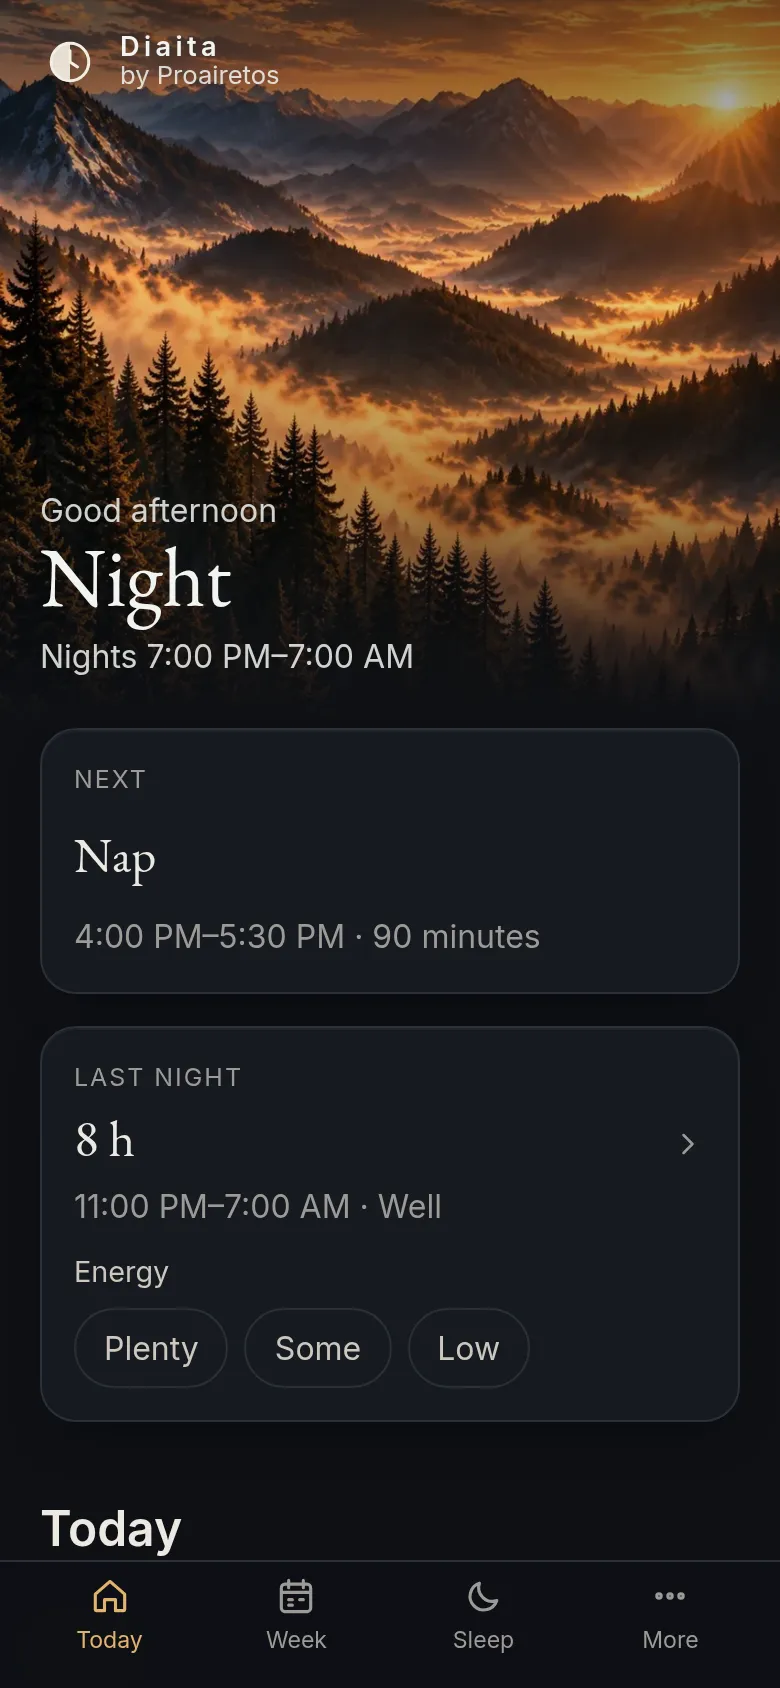
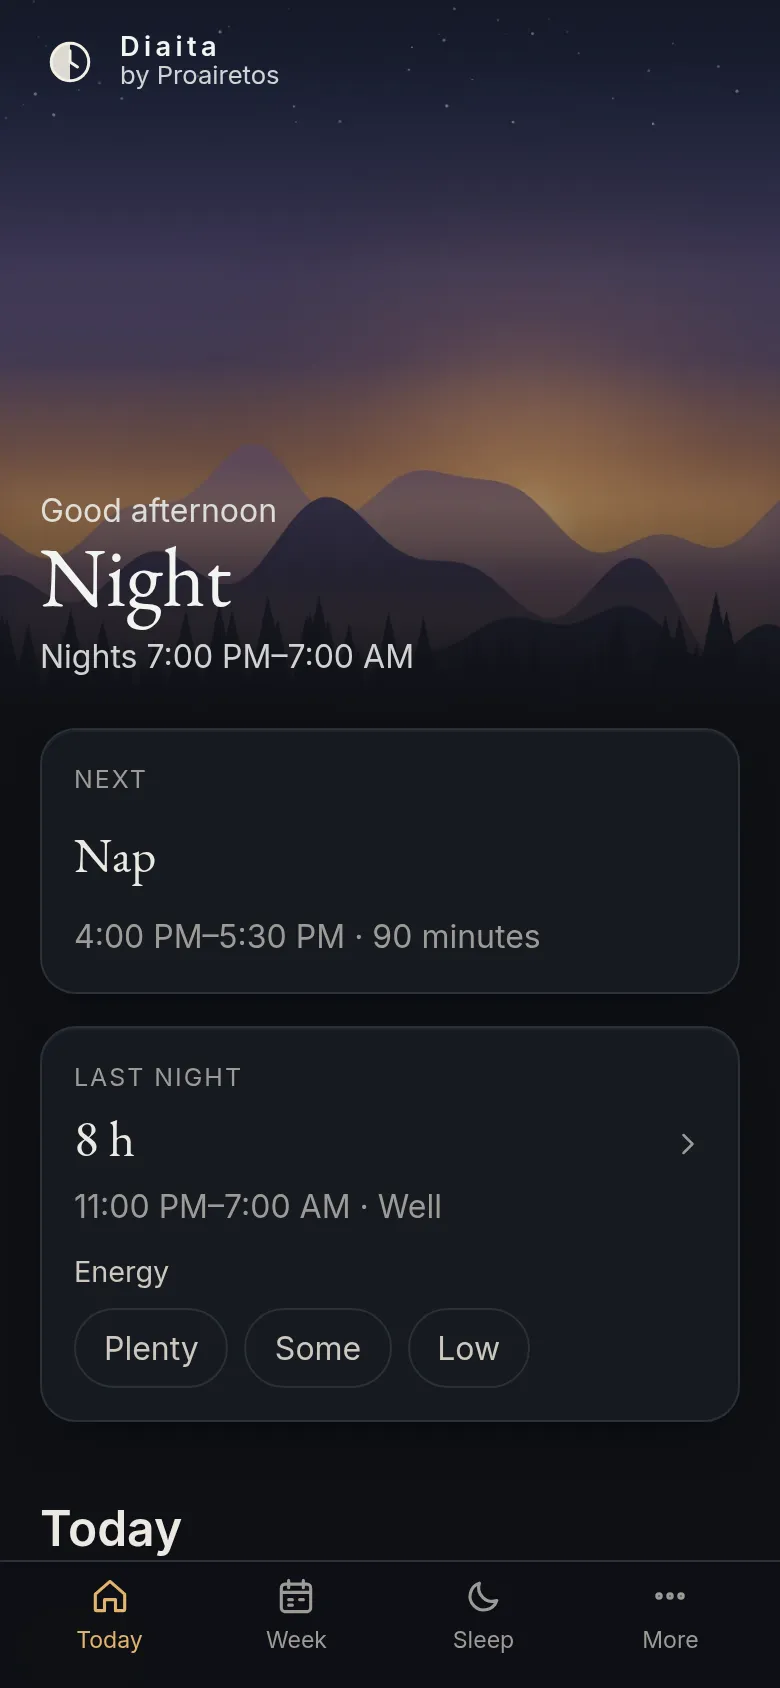
Diaita, Philia and Ergon: their own drawn scenes
Night turning to dawn for Diaita, two trees by a warm lake for Philia, a lit
house in a sage valley for Ergon, in phone and computer sizes, on each app's
welcome and home. Install screenshots refreshed.

Claude-Session: https://claude.ai/code/session_01N8anZuCLRDLCYndkcTu2xC

diff --git a/src/diaita/screens/TodayPage.tsx b/src/diaita/screens/TodayPage.tsx
@@ -3,8 +3,8 @@ import { Brand, offerUndo } from '../../app/family/shell';
 import { AppMark, ChevronIcon } from '../../app/family/icons';
 import { energyFor, setEnergy, subscribePreferences, type Energy } from '../../data/storage/preferences';
 import { addDays, toLocalDate } from '../../core/scheduling/dates';
-import photo from '../../assets/images/scenes/sunrise.webp';
-import photoWide from '../../assets/images/scenes/sunrise-wide.webp';
+import photo from '../../assets/images/scenes/diaita.webp';
+import photoWide from '../../assets/images/scenes/diaita-wide.webp';
 import type { DiaitaNav } from '../app/App';
 import { sleeps, usePlan } from '../app/state';
 import { Timeline, span } from '../app/ui';

diff --git a/src/ergon/screens/TodayPage.tsx b/src/ergon/screens/TodayPage.tsx
@@ -3,8 +3,8 @@ import { Brand, offerUndo } from '../../app/family/shell';
 import { AppMark, PlusIcon } from '../../app/family/icons';
 import { Segmented } from '../../askesis/app/ui';
 import { toLocalDate } from '../../core/scheduling/dates';
-import photo from '../../assets/images/scenes/forest.webp';
-import photoWide from '../../assets/images/scenes/forest-wide.webp';
+import photo from '../../assets/images/scenes/ergon.webp';
+import photoWide from '../../assets/images/scenes/ergon-wide.webp';
 import type { ErgonNav } from '../app/App';
 import { newId, putChore, removeChore, settings, useChores, useHome } from '../app/state';
 import { ChoreList } from '../app/ui';

diff --git a/src/philia/screens/HomePage.tsx b/src/philia/screens/HomePage.tsx
@@ -1,8 +1,8 @@
 import { Brand, offerUndo } from '../../app/family/shell';
 import { AppMark, ChevronIcon, PlusIcon } from '../../app/family/icons';
 import { toLocalDate } from '../../core/scheduling/dates';
-import photo from '../../assets/images/scenes/morning.webp';
-import photoWide from '../../assets/images/scenes/morning-wide.webp';
+import photo from '../../assets/images/scenes/philia.webp';
+import photoWide from '../../assets/images/scenes/philia-wide.webp';
 import type { PhiliaNav } from '../app/App';
 import { people } from '../app/state';
 import { Initials } from '../app/ui';

diff --git a/src/diaita/screens/WelcomePage.tsx b/src/diaita/screens/WelcomePage.tsx
@@ -1,7 +1,7 @@
 import { Welcome } from '../../app/family/shell';
 import { AppMark } from '../../app/family/icons';
-import photo from '../../assets/images/scenes/sunrise.webp';
-import photoWide from '../../assets/images/scenes/sunrise-wide.webp';
+import photo from '../../assets/images/scenes/diaita.webp';
+import photoWide from '../../assets/images/scenes/diaita-wide.webp';
 import type { DiaitaNav } from '../app/App';
 import { settings } from '../app/state';
 

diff --git a/src/philia/screens/WelcomePage.tsx b/src/philia/screens/WelcomePage.tsx
@@ -1,7 +1,7 @@
 import { Welcome } from '../../app/family/shell';
 import { AppMark } from '../../app/family/icons';
-import photo from '../../assets/images/scenes/morning.webp';
-import photoWide from '../../assets/images/scenes/morning-wide.webp';
+import photo from '../../assets/images/scenes/philia.webp';
+import photoWide from '../../assets/images/scenes/philia-wide.webp';
 import type { PhiliaNav } from '../app/App';
 import { settings } from '../app/state';
 

diff --git a/src/ergon/screens/WelcomePage.tsx b/src/ergon/screens/WelcomePage.tsx
@@ -1,7 +1,7 @@
 import { Welcome } from '../../app/family/shell';
 import { AppMark } from '../../app/family/icons';
-import photo from '../../assets/images/scenes/forest.webp';
-import photoWide from '../../assets/images/scenes/forest-wide.webp';
+import photo from '../../assets/images/scenes/ergon.webp';
+import photoWide from '../../assets/images/scenes/ergon-wide.webp';
 import type { ErgonNav } from '../app/App';
 import { settings } from '../app/state';
 

diff --git a/CLAUDE.md b/CLAUDE.md
@@ -587,7 +587,7 @@ Inter, bundled via @fontsource), real Supabase emails and push delivery.
   `app/family/shell.tsx` (`stored` settings, `collection` = one localStorage key per record so sync carries each
   on its own, `useRoutes` with back, `TabBar`, `Brand`, `Welcome`, `Shell`, `offerUndo`/`say` + `UndoBar`
   `.family-toast`), `app/family/icons.tsx` (line icons, `AppMark`), `app/family/apps.css` (shared pieces) and
-  `askesis.css`, with colours on `:root.<app>` in `src/<app>/styles/`. Records live in browser storage under
+  `askesis.css`, with colours on `:root.<app>` in `src/<app>/styles/`. Each has its own drawn scene in `assets/images/scenes/` (`diaita`: night sky turning to dawn; `philia`: two trees by a warm lake; `ergon`: a house with a lit window in a sage valley; each also `-wide`, 852×1846 / 1672×941), on its welcome and home hero. Records live in browser storage under
   `diaita:`, `philia:`, `ergon:` (backed up, synced as `preferences`).
 - Diaita (`core/rhythm.ts`, tests): `planBetween` turns the Proairetos schedule (COMMITTED blocks; a night is a
   block running through 03:00) into sleep, wake, wind-down, last caffeine (`cutoffHours`, Drake 2013), nap
